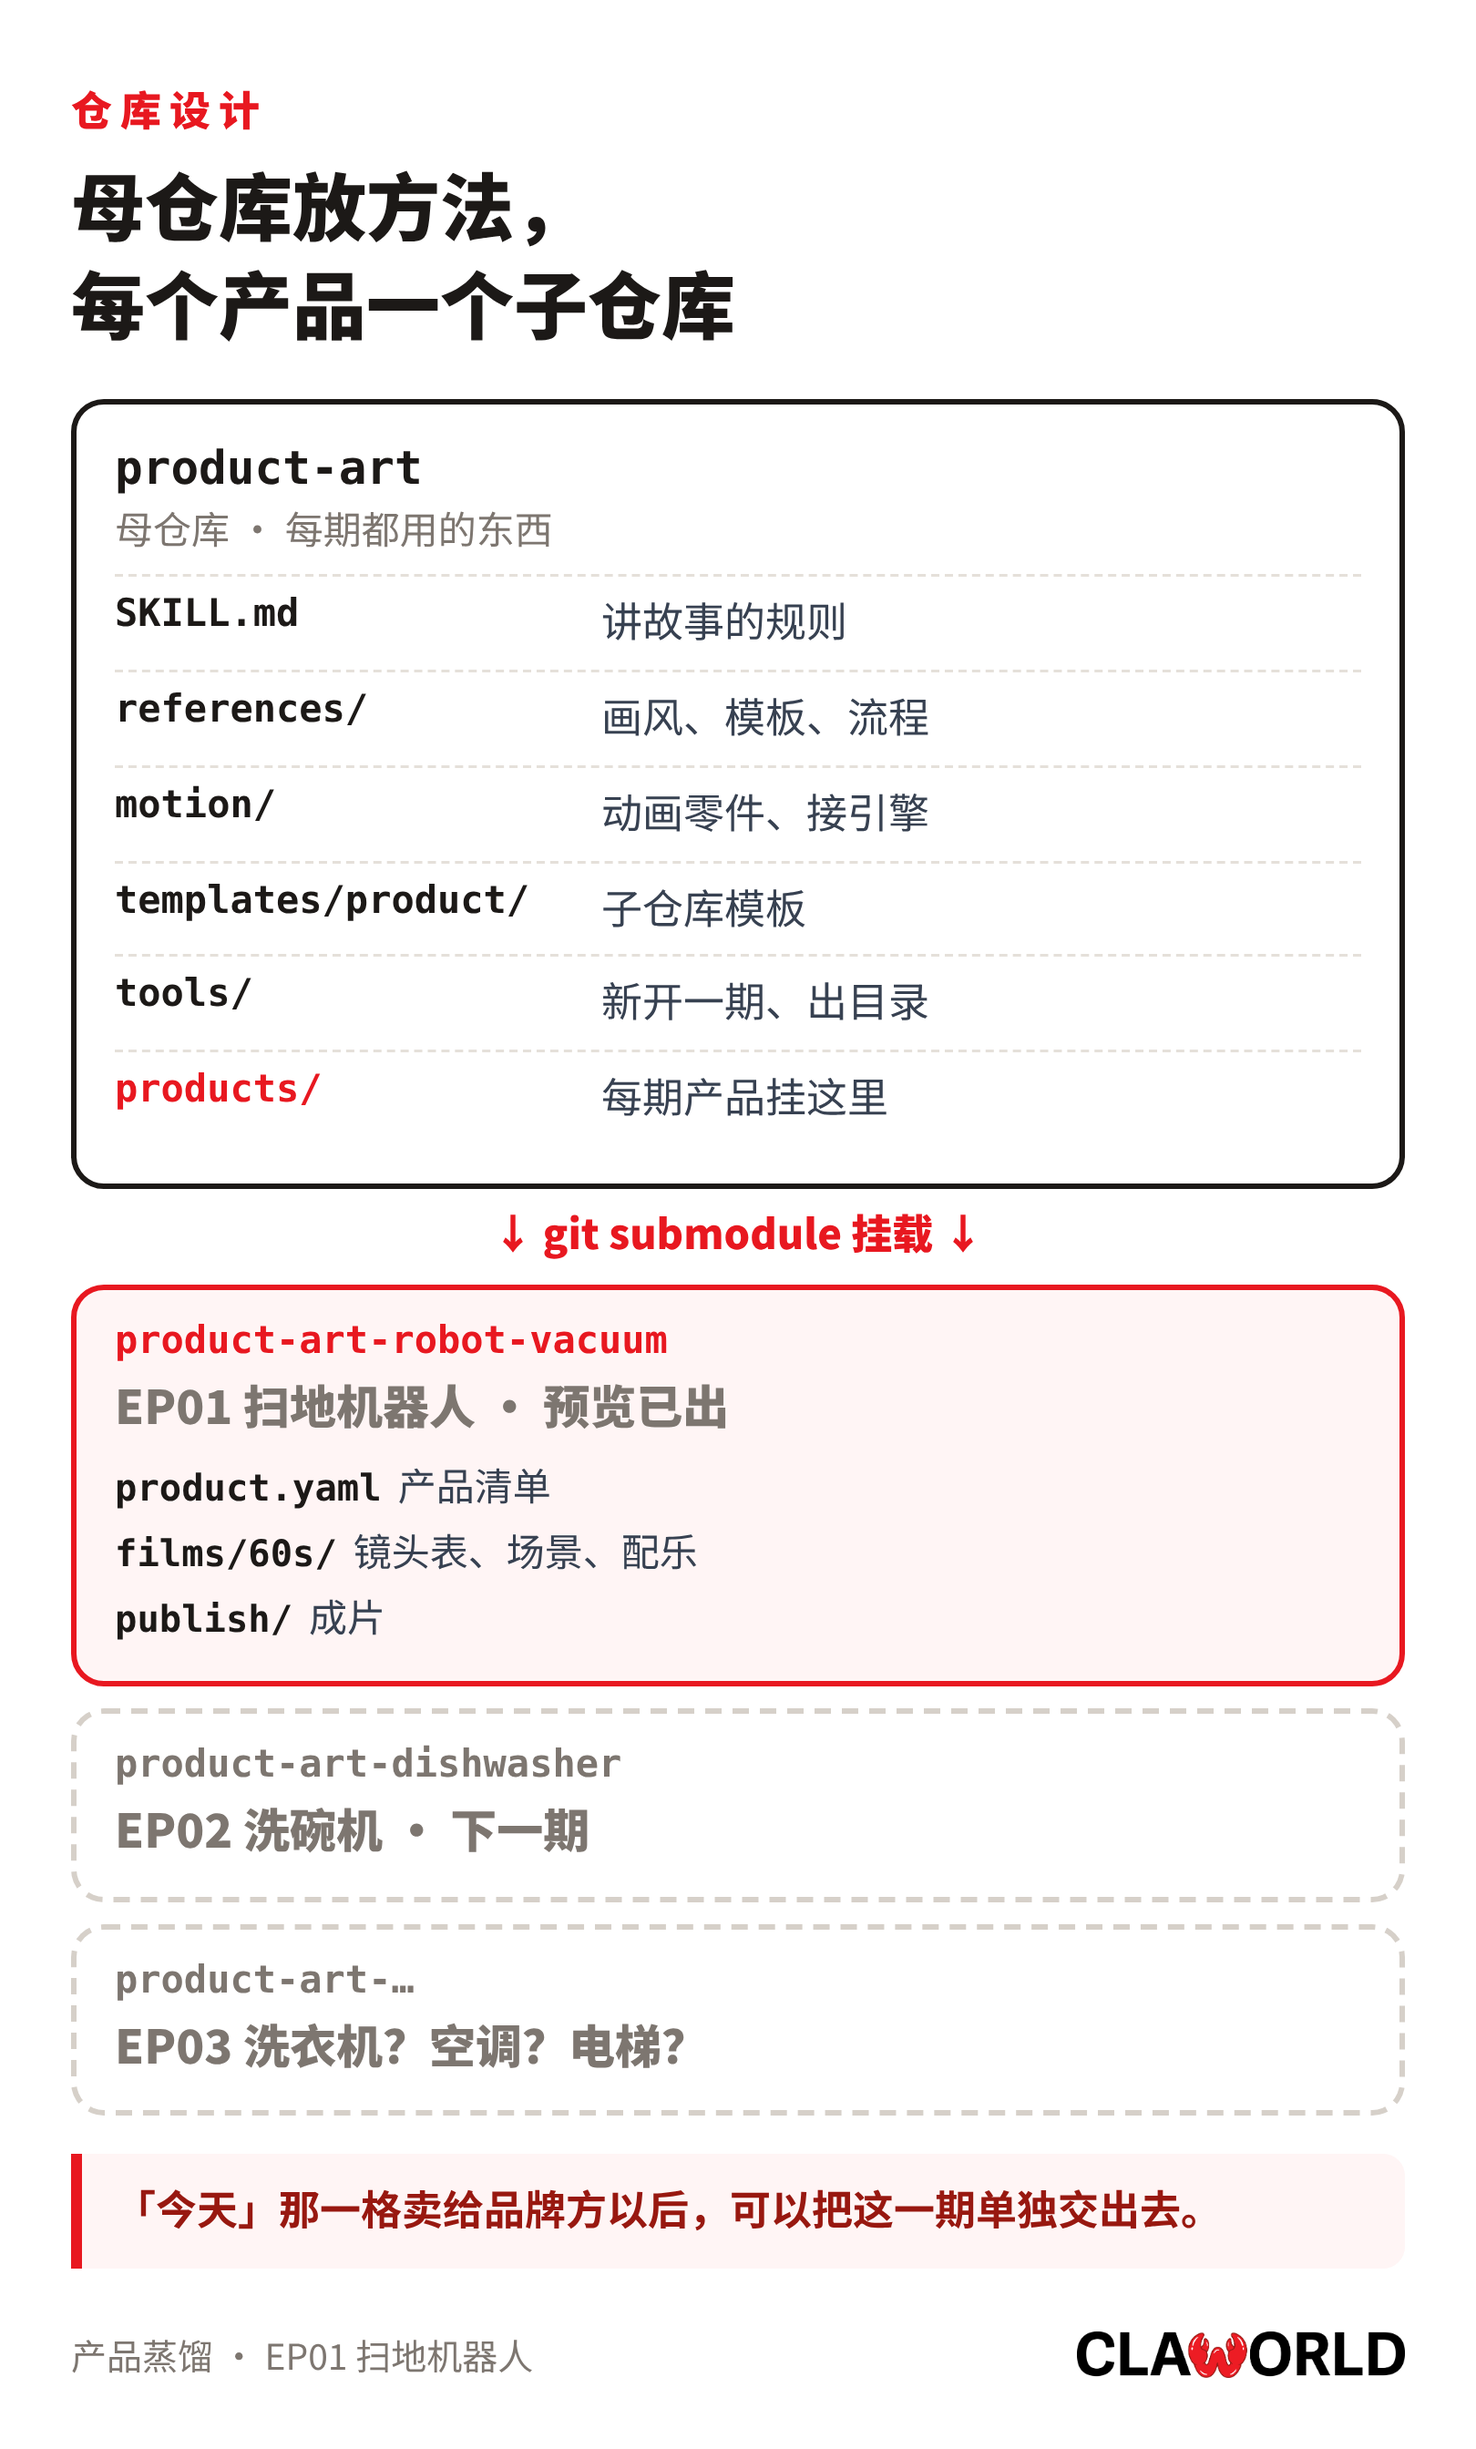
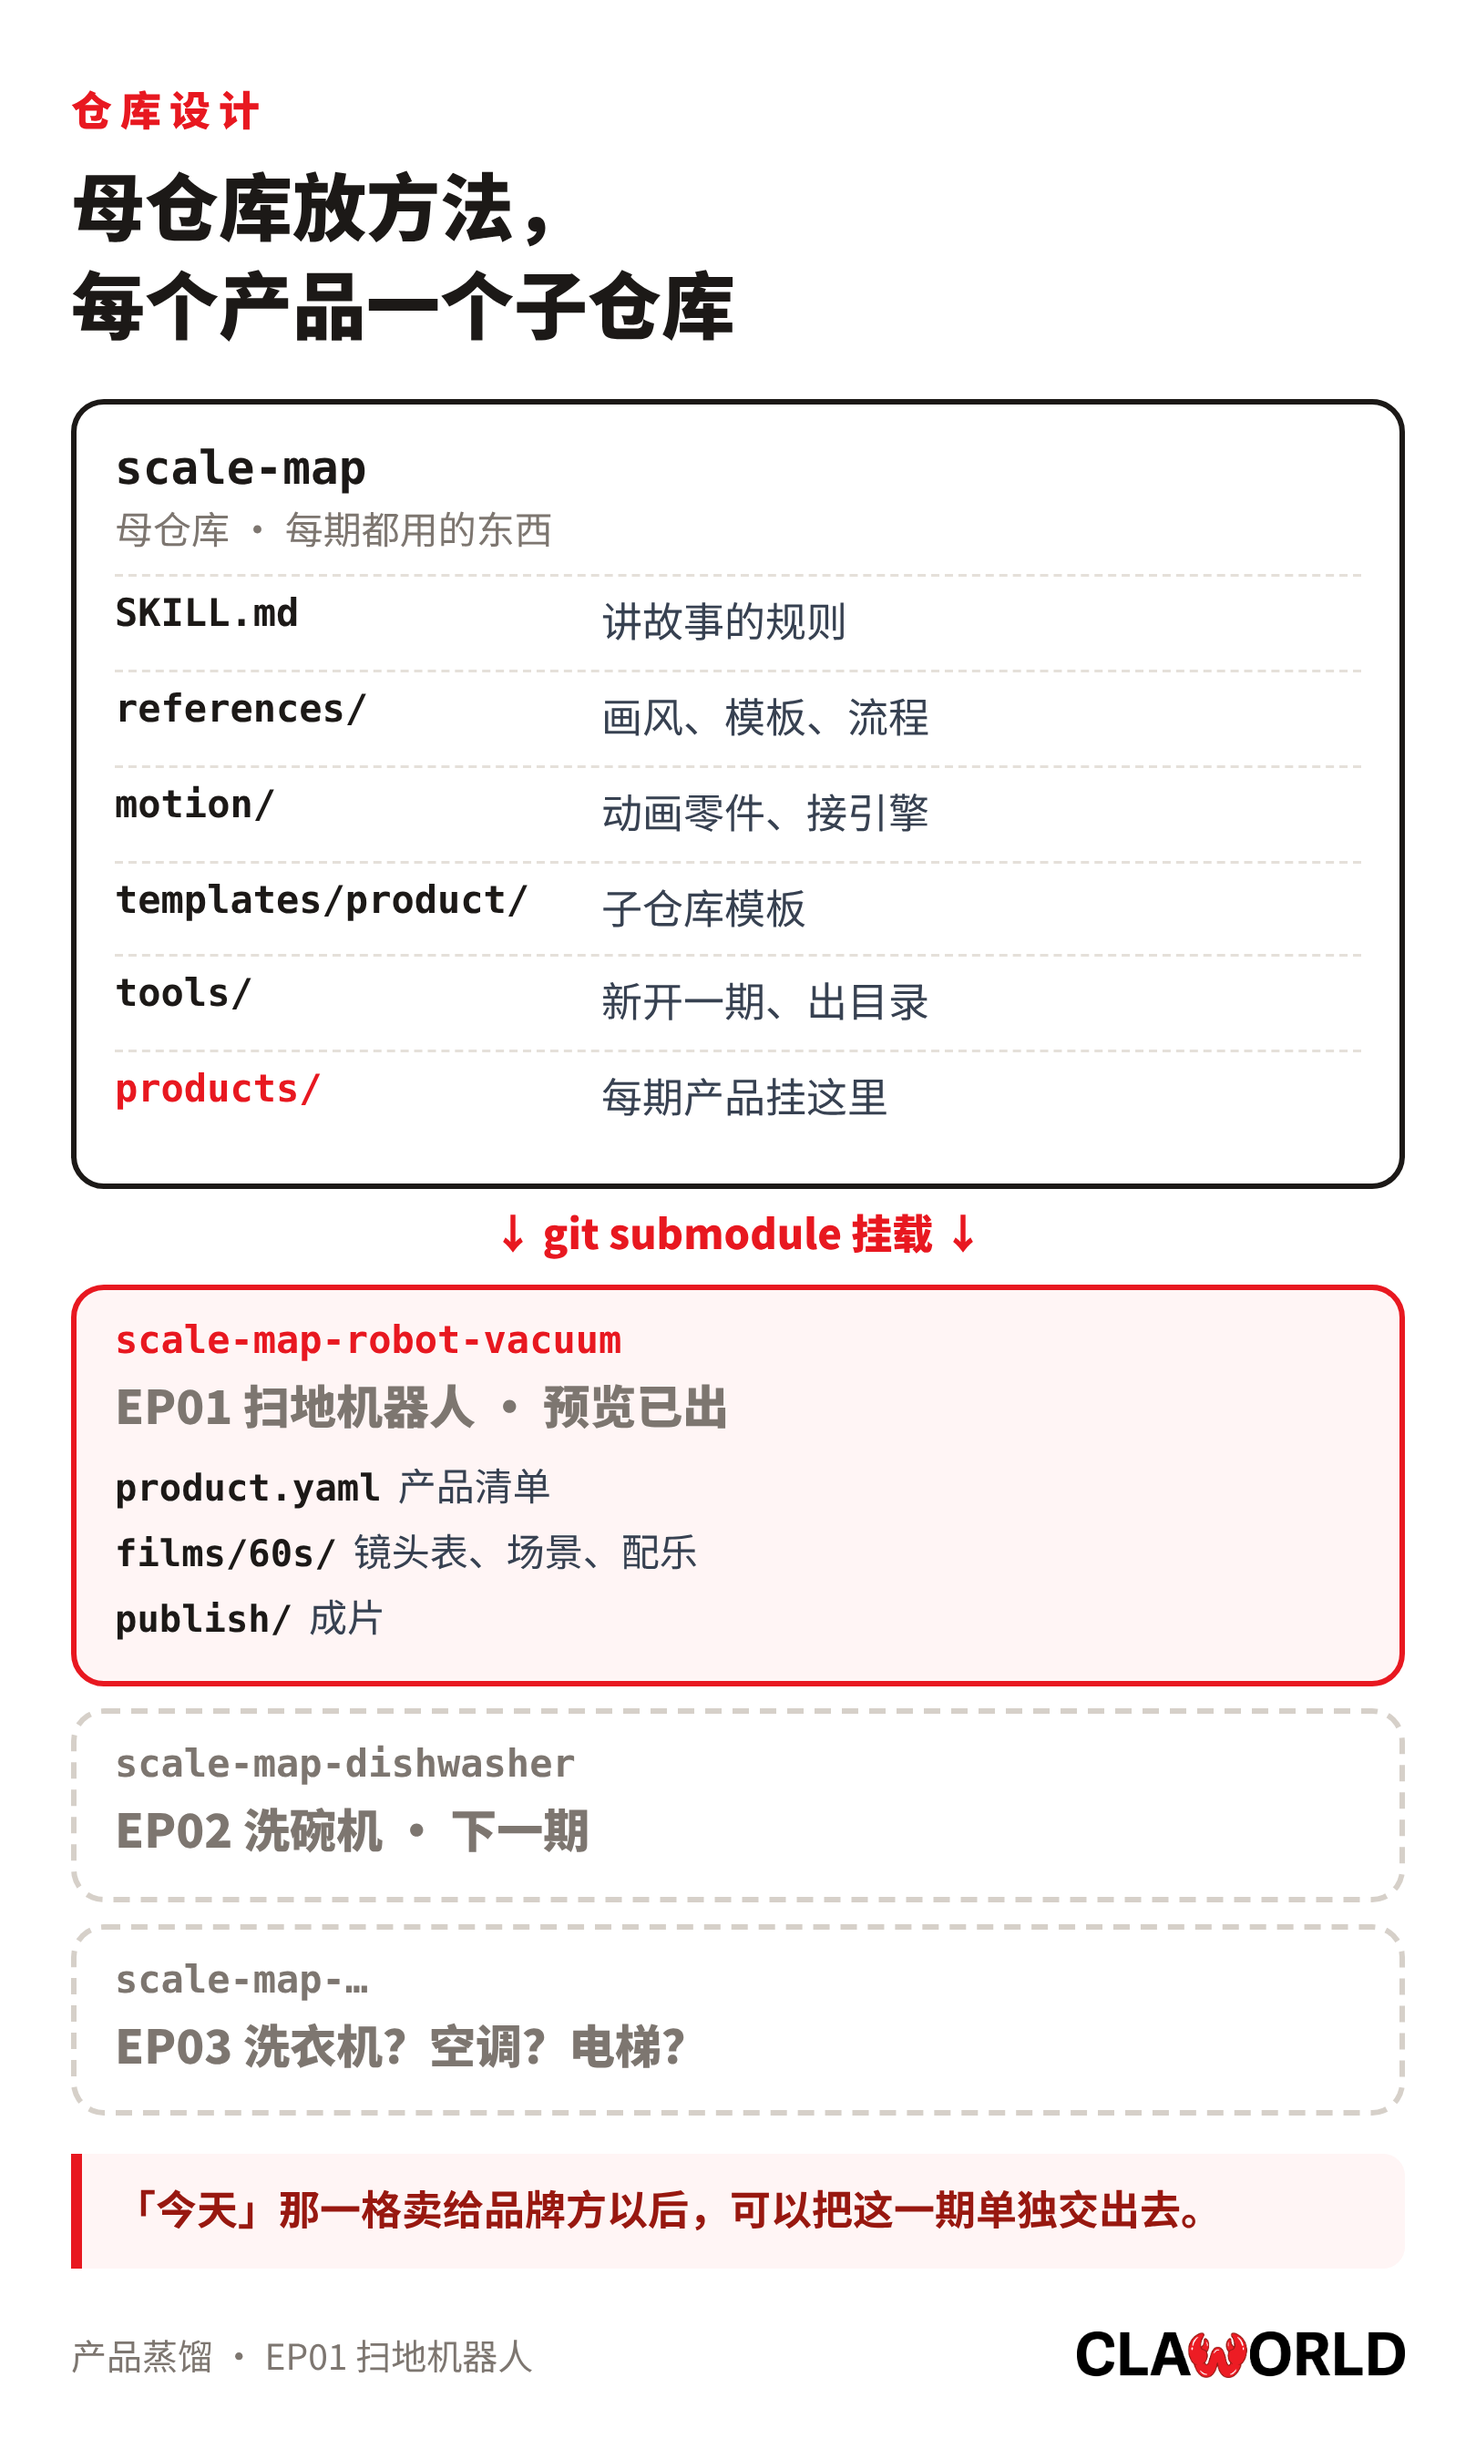
跟随 GitHub 改名：母仓库 scale-map，产品子仓库 scale-map-<slug>
- 文档、模板、new-product.sh、products.sh、.gitmodules 里的名字和地址全部改成 scale-map
- 仓库结构图和新开一期动图重新出图
- products/robot-vacuum 指针更新

Claude-Session: https://claude.ai/code/session_018Es7cBWmrbTt2VEx3q9AKt

diff --git a/docs/设计.md b/docs/设计.md
@@ -1,4 +1,4 @@
-# product-art 仓库设计：一个母仓库，每个产品一个子仓库
+# scale-map 仓库设计：一个母仓库，每个产品一个子仓库
 
 想直接上手，看 [使用教程](教程.md)。
 
@@ -19,7 +19,7 @@
 <p align="center"><img src="images/repo-structure.png" alt="母仓库放方法，每个产品一个子仓库" width="360"></p>
 
 ```
-product-art/                       母仓库
+scale-map/                         母仓库
 ├── SKILL.md                       方法：六层地图、五个阶段、质量门
 ├── references/                    画风圣经、镜头表模板、短片流程、交付格式
 ├── motion/
@@ -31,9 +31,9 @@ product-art/                       母仓库
 │   └── products.sh                读各期 product.yaml，生成 README 里的产品目录
 ├── docs/                          这份设计、系列介绍 PDF
 └── products/
-    └── robot-vacuum/  →  子仓库 product-art-robot-vacuum
+    └── robot-vacuum/  →  子仓库 scale-map-robot-vacuum
 
-product-art-<slug>/                产品子仓库（一个产品一个）
+scale-map-<slug>/                  产品子仓库（一个产品一个）
 ├── product.yaml                   产品清单：论点、结尾问题、状态、片子、广告位、待办
 ├── README.md
 ├── films/
@@ -80,7 +80,7 @@ product-art-<slug>/                产品子仓库（一个产品一个）
 
 | 字段 | 例（EP01） |
 |---|---|
-| `slug` | `robot-vacuum`，也决定子仓库名 `product-art-robot-vacuum` |
+| `slug` | `robot-vacuum`，也决定子仓库名 `scale-map-robot-vacuum` |
 | `episode` | `1` |
 | `name` | 扫地机器人 |
 | `status` | `research → storyboard → preview → gated → published` |
@@ -99,21 +99,21 @@ product-art-<slug>/                产品子仓库（一个产品一个）
 
 ```sh
 tools/new-product.sh dishwasher 洗碗机 2
-# 在 GitHub 建空仓库 David0936/product-art-dishwasher 后：
-git -C ../product-art-dishwasher push -u origin main
+# 在 GitHub 建空仓库 David0936/scale-map-dishwasher 后：
+git -C ../scale-map-dishwasher push -u origin main
 ```
 
 **拉全系列**
 
 ```sh
-git clone --recurse-submodules https://github.com/David0936/product-art.git
+git clone --recurse-submodules https://github.com/David0936/scale-map.git
 # 已经 clone 过：git submodule update --init
 ```
 
 **做一期片子**
 
 ```sh
-cd product-art
+cd scale-map
 motion/sync.sh products/robot-vacuum/films/60s      # 打印渲染、配乐、qa、deliver 命令
 ```
 

diff --git a/templates/product/README.md b/templates/product/README.md
@@ -3,7 +3,7 @@
 > 论点：（写一句）
 > 结尾问题：（写一句）
 
-[product-art](https://github.com/David0936/product-art) 系列的产品子仓库。方法和动画工具包在母仓库；这里只放这个产品的镜头表、证据账本、场景、配乐和成片。
+[scale-map](https://github.com/David0936/scale-map) 系列的产品子仓库。方法和动画工具包在母仓库；这里只放这个产品的镜头表、证据账本、场景、配乐和成片。
 
 | 路径 | 内容 |
 |---|---|
@@ -13,4 +13,4 @@
 | films/60s/score.py | 配乐（可从 EP01 复制改写） |
 | publish/ | 交付给平台的视频 |
 
-渲染：在母仓库里跑 `motion/sync.sh products/__SLUG__/films/60s`。完整步骤见母仓库的 [docs/教程.md](https://github.com/David0936/product-art/blob/main/docs/教程.md)。
+渲染：在母仓库里跑 `motion/sync.sh products/__SLUG__/films/60s`。完整步骤见母仓库的 [docs/教程.md](https://github.com/David0936/scale-map/blob/main/docs/教程.md)。

diff --git a/references/film-pipeline.md b/references/film-pipeline.md
@@ -57,7 +57,7 @@ Before production, render **one story beat** (the most visual turning point work
 ## 5. Build
 
 ```
-products/<slug>/                 one product = one sub-repo (product-art-<slug>)
+products/<slug>/                 one product = one sub-repo (scale-map-<slug>)
   product.yaml                   thesis, question, status, ad slot, films
   films/<id>/                    one cut, e.g. films/60s
     镜头表.md            storyboard + evidence ledger (lint this)
